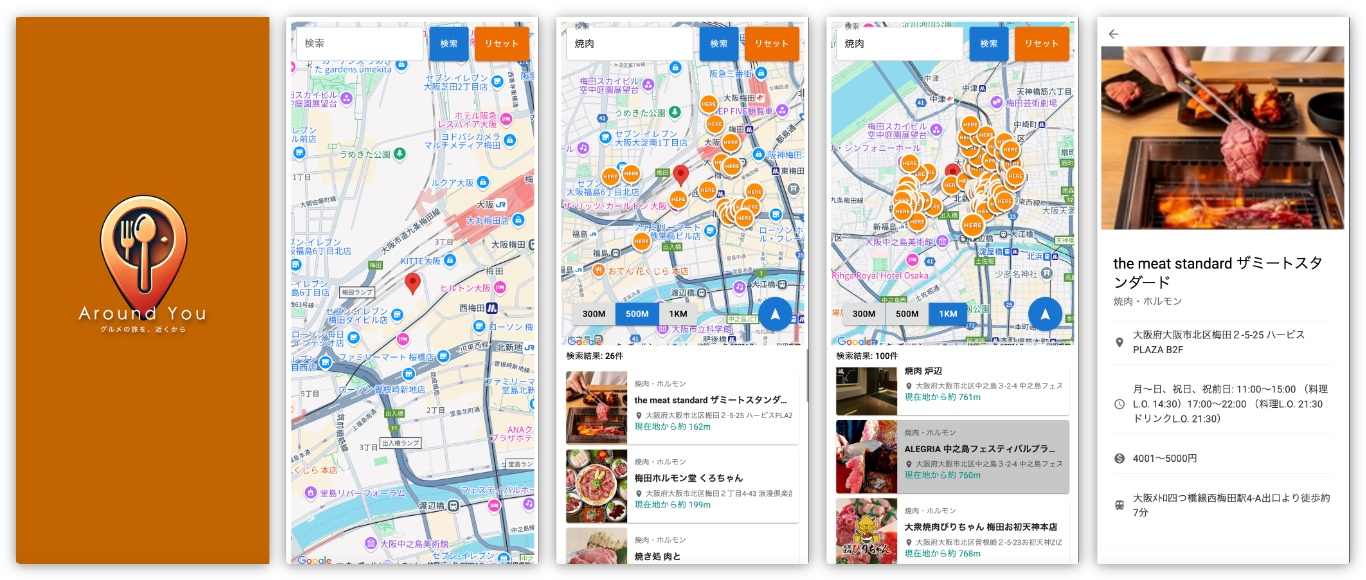
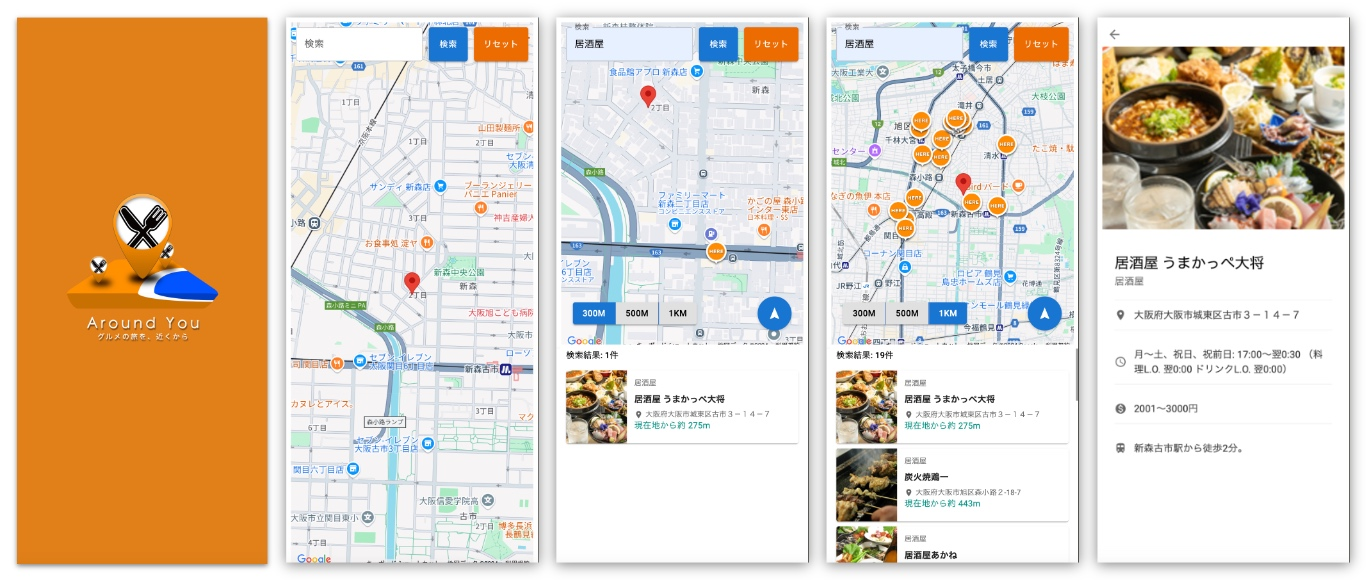
fix: ロゴの修正、スプラッシュスクリーンの色修正

diff --git a/frontend/src/components/Splash/style.module.scss b/frontend/src/components/Splash/style.module.scss
@@ -4,7 +4,7 @@
     left: 0;
     right: 0;
     bottom: 0;
-    background-color: rgb(193, 100, 0);
+    background-color: rgb(225, 128, 23);
     display: flex;
     justify-content: center;
     align-items: center;
